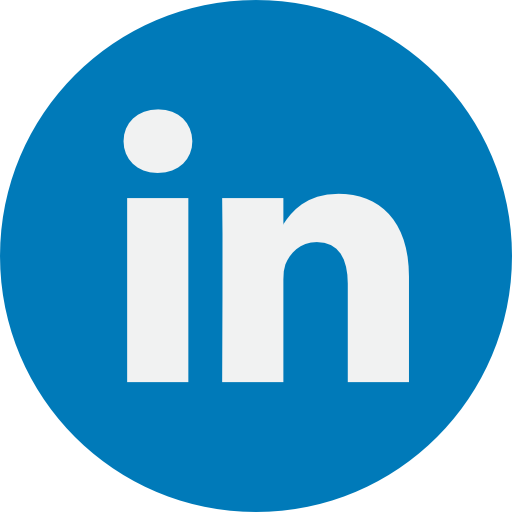
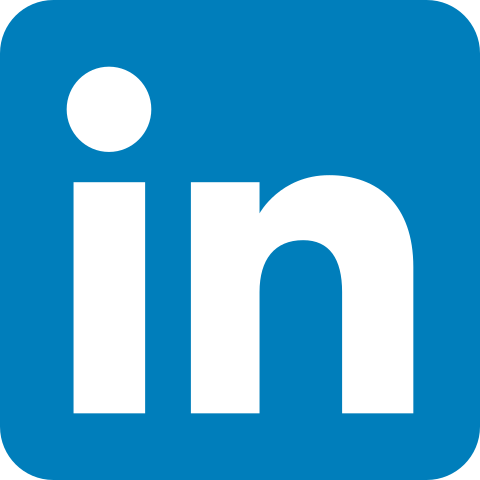
Vista nosotros-team

diff --git a/public/css/estilos/nosotros.css b/public/css/estilos/nosotros.css
@@ -470,7 +470,7 @@
     position: absolute;
     bottom:10px; /* Ajustado para que se muestre debajo del borde. */
     right: 10px; /* Ajustado para que se muestre a un lado. */
-    background-color: #007bff;
+    background-color: #017ebc;
     border-radius: 50%;
     width: 30px;
     height: 30px;

diff --git a/resources/views/vistas/view/pages/nosotros.blade.php b/resources/views/vistas/view/pages/nosotros.blade.php
@@ -87,9 +87,8 @@
                             <div class="member-photo-wrapper">
                                 <img src="{{ asset('images/team/gabriel.webp')}}" alt="Foto de Gabriel Alpiry Hurtado" class="member-photo">
                             </div>
-                            <a href="#" class="member-link">
-                                <img src="{{ asset('') }}" alt="">
-                                <svg class="arrow-icon" xmlns="http viewBox="0 0 24 24" fill="none" stroke="currentColor" stroke-width="2" stroke-linecap="round" stroke-linejoin="round"><line x1="5" y1="12" x2="19" y2="12"></line><polyline points="12 5 19 12 12 19"></polyline></svg>
+                            <a href="https://www.linkedin.com/in/gabriel-alpiry-hurtado-1a6083a5/" class="member-link">
+                                <img class="arrow-icon" src="{{ asset('images/team/linkedin.png') }}" alt="">
                             </a>
                         </div>
                         <h3 class="member-name">Gabriel Alpiry Hurtado</h3>
@@ -102,8 +101,8 @@
                             <div class="member-photo-wrapper">
                                 <img src="{{ asset('images/team/edwar.webp')}}" alt="Foto de Edward Rojas" class="member-photo">
                             </div>
-                            <a href="#" class="member-link">
-                                <svg class="arrow-icon" xmlns="http://www.w3.org/2000/svg" viewBox="0 0 24 24" fill="none" stroke="currentColor" stroke-width="2" stroke-linecap="round" stroke-linejoin="round"><line x1="5" y1="12" x2="19" y2="12"></line><polyline points="12 5 19 12 12 19"></polyline></svg>
+                            <a href="https://www.linkedin.com/in/edward-rojas-cespedes-b7a4a61a2/" class="member-link">
+                                <img class="arrow-icon" src="{{ asset('images/team/linkedin.png') }}" alt="">
                             </a>
                         </div>
                         <h3 class="member-name">Edward Rojas</h3>
@@ -115,8 +114,8 @@
                             <div class="member-photo-wrapper">
                                 <img src="{{ asset('images/team/antonio.webp')}}" alt="Foto de Antonio Sandoval Flores" class="member-photo">
                             </div>
-                            <a href="#" class="member-link">
-                                <svg class="arrow-icon" xmlns="http://www.w3.org/2000/svg" viewBox="0 0 24 24" fill="none" stroke="currentColor" stroke-width="2" stroke-linecap="round" stroke-linejoin="round"><line x1="5" y1="12" x2="19" y2="12"></line><polyline points="12 5 19 12 12 19"></polyline></svg>
+                            <a href="https://www.linkedin.com/in/sandoval-flores-antonio-alexander-17a5aa335/" class="member-link">
+                                <img class="arrow-icon" src="{{ asset('images/team/linkedin.png') }}" alt="">
                             </a>
                         </div>
                         <h3 class="member-name">Antonio Sandoval Flores</h3>
@@ -128,8 +127,8 @@
                             <div class="member-photo-wrapper">
                                 <img src="{{ asset('images/team/alvaro.webp')}}" alt="Foto de Alvaro Rojas" class="member-photo">
                             </div>
-                            <a href="#" class="member-link">
-                                <svg class="arrow-icon" xmlns="http://www.w3.org/2000/svg" viewBox="0 0 24 24" fill="none" stroke="currentColor" stroke-width="2" stroke-linecap="round" stroke-linejoin="round"><line x1="5" y1="12" x2="19" y2="12"></line><polyline points="12 5 19 12 12 19"></polyline></svg>
+                            <a href="https://www.linkedin.com/in/alvaro-rojas-machuca/" class="member-link">
+                                <img class="arrow-icon" src="{{ asset('images/team/linkedin.png') }}" alt="">
                             </a>
                         </div>
                         <h3 class="member-name">Alvaro Rojas</h3>
@@ -141,8 +140,8 @@
                             <div class="member-photo-wrapper">
                                 <img src="{{ asset('images/team/alejandro.webp')}}" alt="Foto de Alejandro Calzadilla Nogales" class="member-photo">
                             </div>
-                            <a href="#" class="member-link">
-                                <svg class="arrow-icon" xmlns="http://www.w3.org/2000/svg" viewBox="0 0 24 24" fill="none" stroke="currentColor" stroke-width="2" stroke-linecap="round" stroke-linejoin="round"><line x1="5" y1="12" x2="19" y2="12"></line><polyline points="12 5 19 12 12 19"></polyline></svg>
+                            <a href="http://www.linkedin.com/in/alejandro-calzadilla-nogales-79b362198" class="member-link">
+                                <img class="arrow-icon" src="{{ asset('images/team/linkedin.png') }}" alt="">
                             </a>
                         </div>
                         <h3 class="member-name">Alejandro Calzadilla</h3>
@@ -154,8 +153,8 @@
                             <div class="member-photo-wrapper">
                                 <img src="{{ asset('images/team/carlos.webp')}}" alt="Foto de Carlos Mamani Torrez" class="member-photo">
                             </div>
-                            <a href="#" class="member-link">
-                                <svg class="arrow-icon" xmlns="http://www.w3.org/2000/svg" viewBox="0 0 24 24" fill="none" stroke="currentColor" stroke-width="2" stroke-linecap="round" stroke-linejoin="round"><line x1="5" y1="12" x2="19" y2="12"></line><polyline points="12 5 19 12 12 19"></polyline></svg>
+                            <a href="www.linkedin.com/in/carlosenriquemamani" class="member-link">
+                                <img class="arrow-icon" src="{{ asset('images/team/linkedin.png') }}" alt="">
                             </a>
                         </div>
                         <h3 class="member-name">Carlos Mamani Torrez</h3>
@@ -167,8 +166,8 @@
                             <div class="member-photo-wrapper">
                                 <img src="{{ asset('images/team/jhonny.webp')}}" alt="Foto de Jhonny Durán" class="member-photo">
                             </div>
-                            <a href="#" class="member-link">
-                                <svg class="arrow-icon" xmlns="http://www.w3.org/2000/svg" viewBox="0 0 24 24" fill="none" stroke="currentColor" stroke-width="2" stroke-linecap="round" stroke-linejoin="round"><line x1="5" y1="12" x2="19" y2="12"></line><polyline points="12 5 19 12 12 19"></polyline></svg>
+                            <a href="https://www.linkedin.com/in/jhonny-duran-39b105184" class="member-link">
+                                <img class="arrow-icon" src="{{ asset('images/team/linkedin.png') }}" alt="">
                             </a>
                         </div>
                         <h3 class="member-name">Jhonny Durán</h3>
@@ -180,12 +179,12 @@
                             <div class="member-photo-wrapper">
                                 <img src="{{ asset('images/team/micaela.webp')}}" alt="Foto de Jhonny Durán" class="member-photo">
                             </div>
-                            <a href="#" class="member-link">
-                                <svg class="arrow-icon" xmlns="http://www.w3.org/2000/svg" viewBox="0 0 24 24" fill="none" stroke="currentColor" stroke-width="2" stroke-linecap="round" stroke-linejoin="round"><line x1="5" y1="12" x2="19" y2="12"></line><polyline points="12 5 19 12 12 19"></polyline></svg>
+                            <a href="http://www.linkedin.com/in/micaela-leon-77b518380" class="member-link">
+                                <img class="arrow-icon" src="{{ asset('images/team/linkedin.png') }}" alt="">
                             </a>
                         </div>
                         <h3 class="member-name">Mikaela Leon</h3>
-                        <p class="member-title">Diseñadors</p>
+                        <p class="member-title">Diseñadora Gráfica</p>
                     </div>
 
                 </div>
